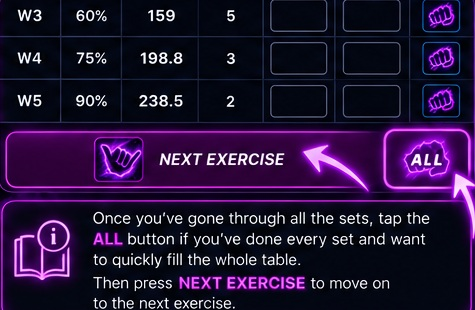
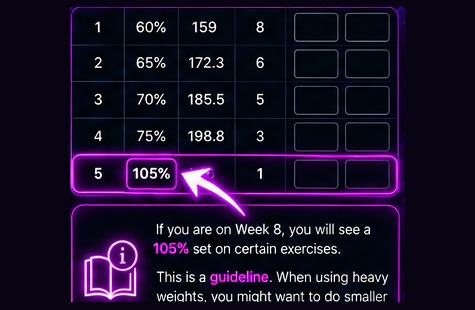
ag Scioence v29.1

diff --git a/index.html b/index.html
@@ -678,7 +678,7 @@ function showStreakPopup(force=false){
 }
 function toggleExerciseCard(i){let el=document.getElementById('exercise-'+i);if(el){el.classList.toggle('collapsed');let b=el.querySelector('.exerciseExpand');if(b)b.textContent=el.classList.contains('collapsed')?'EXPAND':'COLLAPSE'}}
 function toggleExtrasCard(){document.getElementById('workoutExtras')?.classList.toggle('collapsed')}
-function workout(){setActiveNav("workout");let d=st.days[st.day],s=`<div class=top><button class=btn onclick="move(-1)">‹ Back</button><div class=title><div class="zagGuideTitle"><h1>${esc(d[0])}</h1><button type="button" class="zagGuideLaunch" onclick="zagOpenWorkoutGuide()" aria-label="Workout guide"><img src="assets/images/info-book.png" alt=""><span>i</span></button></div><p>${esc(st.splitName)} • Day ${st.day+1}/${st.days.length}</p></div><button class=btn onclick="move(1)">Next ›</button></div>`;
+function workout(){setActiveNav("workout");let d=st.days[st.day],s=`<div class=top><button class=btn onclick="move(-1)">‹ Back</button><div class=title><div class="zagGuideTitle"><h1>${esc(d[0])}</h1><button type="button" class="zagGuideLaunch" onclick="zagOpenWorkoutGuide()" aria-label="Workout guide"><img src="assets/images/workout-guide-info-icon.png" alt=""></button></div><p>${esc(st.splitName)} • Day ${st.day+1}/${st.days.length}</p></div><button class=btn onclick="move(1)">Next ›</button></div>`;
 d[1].forEach((ex,e)=>{let ts=sets(ex),w=st.stickWeek?"stick":(st.weeks[ex]||1);s+=`<section id="exercise-${e}" class="exercise collapsed"><div class="exerciseTitleRow"><div class=n>${e+1}</div><div class=name>${esc(ex)}</div><div class="titleMaxTop">MAX: ${weightText(st.max[ex]||0)}</div><div class="exerciseControls"><button class="exerciseExpand" type="button" onclick="event.stopPropagation();toggleExerciseCard(${e})">EXPAND</button><select class=week onclick="event.stopPropagation()" onchange="setExerciseWeek('${q(ex)}',this.value)">${st.stickWeek?`<option value="stick" selected>Stick Week</option>`:[1,2,3,4,5,6,7,8].map(n=>`<option value="${n}" ${n==w?'selected':''}>Week ${n}</option>`).join("")}</select><span></span><button class="btn editMain" onclick="event.stopPropagation();chooseExtraForMain(${e})">Edit</button></div></div><div class=exerciseBody><table><tr><th>Set</th><th>%</th><th>Target<br>Weight</th><th>Target<br>Reps</th><th>Actual<br>Weight</th><th>Actual<br>Reps</th><th>Quick</th></tr>`;
 ts.forEach((t,i)=>{let v=st.draft[k(ex,i)]||{},stick=st.stickWeek,workStart=stick?4:5,setLabel=t.backoff?"B"+(i-8):(i<workStart?"W"+(i+1):i-workStart+1),pct=t.backoff?"":(Math.round(t.p*1000)/10+"%");s+=`<tr><td>${setLabel}</td><td>${pct}</td><td>${t.backoff?"":kgToDisplay(t.kg)}</td><td>${t.backoff?"":t.r}</td><td><input class=cell type=number inputmode=decimal value="${v.kg===undefined||v.kg===""?"":kgToDisplay(v.kg)}" onchange="field('${q(k(ex,i))}','kg',this.value)"></td><td><input class=cell type=number inputmode=numeric value="${v.r??""}" onchange="field('${q(k(ex,i))}','r',this.value)"></td><td><button class="fist ${v.done?'done':''}" onclick="one('${q(ex)}',${i},this)">&nbsp;</button></td></tr>`});s+=`</table><div class=exerciseBottomActions><button class=exComplete onclick="completeExercise('${q(ex)}',${e})"><img class=flameimg src="assets/images/asset-017-67cca83dc4cc.png"><span>NEXT EXERCISE</span></button><button class=allSetsBtn onclick="fillAllSets('${q(ex)}')" aria-label="Fill all sets"><span>ALL</span><span class=allSetsFist></span></button></div></div></section>`});
 s+=`<button class=finish onclick=finish()>✓ FINISH WORKOUT</button><section id=workoutExtras class="extras collapsed"><div class=extrasTitleRow onclick=toggleExtrasCard()><h2>Extras / Replacements</h2><span class=exerciseChevron>⌄</span></div><div class=extrasBody>${d[2].map(x=>`<div class=extra><span>${esc(x)}</span><input class=cell type=number value="${st.max[x]?kgToDisplay(st.max[x]):""}" placeholder="Max (${weightUnit()})" onchange="zagSetMax('${q(x)}',this.value)"><button class=btn onclick="openSwap('${q(x)}')">Swap</button></div>`).join("")}<button class=btn style="margin-top:6px" onclick=addEx()>+ Add Exercise</button></div></section>`;document.getElementById("screen").innerHTML=s}
@@ -3920,8 +3920,9 @@ const slides=[
  ['CHOOSE AN AVAILABLE MACHINE','assets/images/workout-guide-2.jpg','<strong>Step 2:</strong> Check which machines or equipment are free. If the listed exercise is unavailable—or you simply want a different one—tap <strong>Edit</strong> to swap it.'],
  ['CHECK YOUR WEEK AND MAX','assets/images/workout-guide-3.jpg','<strong>Step 3:</strong> Make sure the <strong>Week</strong> is correct. On your first time doing this workout day, begin with <strong>Week 1</strong> for the first exercise. Check the <strong>MAX</strong> shown: if it is 0 kg or incorrect, open the <strong>Maxes</strong> tab and enter your max weight so the target weights calculate correctly.'],
  ['RECORD YOUR SETS','assets/images/workout-guide-4.jpg','<strong>Step 4:</strong> Work through the exercise and enter the weight and reps you actually completed. If you matched the targets, tap the purple <strong>Quick</strong> fist beside that set to fill it in instantly.'],
- ['ALL SETS AND NEXT EXERCISE','assets/images/workout-guide-5.jpg','<strong>Step 5:</strong> If you completed every set as prescribed, tap <strong>ALL</strong> to fill the entire exercise at once. Otherwise enter your actual results. Then tap <strong>Next Exercise</strong> to open the following exercise.'],
- ['FINISH AND SAVE YOUR WORKOUT','assets/images/workout-guide-6.jpg','<strong>Step 6:</strong> Once you have finished every exercise, scroll to the bottom and tap <strong>FINISH WORKOUT</strong> to log your results and complete the day.']
+ ['WEEK 8: THE 105% SET','assets/images/workout-guide-5.jpg','<strong>Step 5:</strong> On <strong>Week 8</strong>, the <strong>105%</strong> set on certain exercises is a <strong>guideline</strong>, not a requirement. With very heavy weights, you may prefer a smaller increase. Choose a sensible progression that maintains good technique.'],
+ ['ALL SETS AND NEXT EXERCISE','assets/images/workout-guide-6.jpg','<strong>Step 6:</strong> If you completed every set as prescribed, tap <strong>ALL</strong> to fill the entire exercise at once. Otherwise enter your actual results. Then tap <strong>Next Exercise</strong> to open the following exercise.'],
+ ['FINISH AND SAVE YOUR WORKOUT','assets/images/workout-guide-7.jpg','<strong>Step 7:</strong> Once you have finished every exercise, scroll to the bottom and tap <strong>FINISH WORKOUT</strong> to log your results and complete the day.']
 ];
 let idx=0, startX=0;
 function render(){const [title,img,desc]=slides[idx];const b=document.getElementById('zgBody');if(!b)return;b.innerHTML='<div class="zgStep">STEP '+(idx+1)+' OF '+slides.length+'</div><h2>'+title+'</h2><img class="zgShot" src="'+img+'" alt="Illustrated workout guide step '+(idx+1)+'">';document.getElementById('zgDots').innerHTML=slides.map((_,i)=>'<i class="'+(i===idx?'active':'')+'"></i>').join('');document.getElementById('zgPrev').disabled=idx===0;document.getElementById('zgNext').textContent=idx===slides.length-1?'Done ✓':'Next ›';b.scrollTop=0;}
@@ -4014,3 +4015,5 @@ const overlay=document.getElementById('zagWorkoutGuide');overlay.addEventListene
 .zagApprovedScore{bottom:9px!important;}
 </style>
 <script id="zag-build-marker-v288-podium-full-artwork">window.ZAG_BUILD="28.8-PODIUM-FULL-ARTWORK";</script>
+
+<style id="zag-guide-icon-update">.zagGuideLaunch{width:38px;height:38px;padding:0;border:0;background:transparent;border-radius:9px;box-shadow:none;overflow:hidden}.zagGuideLaunch img{width:100%;height:100%;object-fit:fill;display:block}.zagGuideLaunch span{display:none!important}</style>
